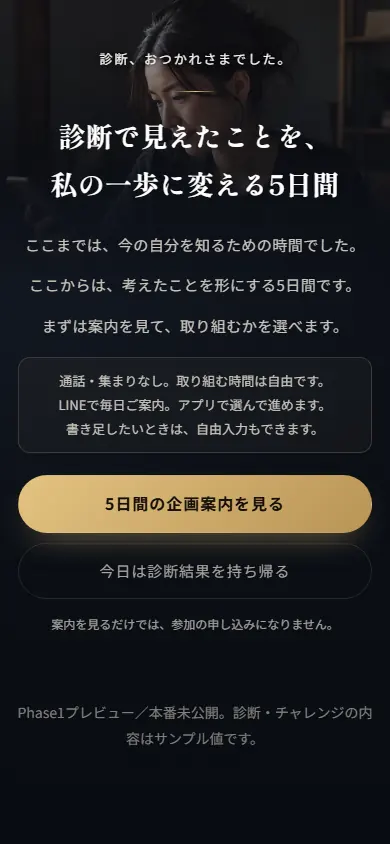
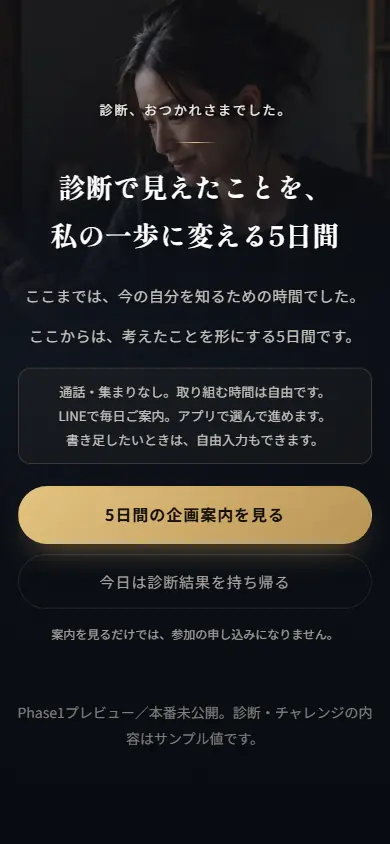
マニュアル更新：今日の変更を反映（全33画面を撮り直し）
・切り替わり画面（本文2行・進み方3行・上部の写真）
・参加の宣言（Codex確定本文）
・診断結果（すでに友だちの人への案内）
・裏側の仕組みに、再診断の通知（⑨）と管理ページの「◯回目」を追記

diff --git a/shindan-5day-manual/index.html b/shindan-5day-manual/index.html
@@ -138,6 +138,7 @@ strong{color:var(--ink)}
 <li>ボタンを押すと、押したその流れの中でコピーします（iOSは間に通信を挟むとコピーに失敗するため）</li>
 <li>コピーできて初めて、LINEの友だち追加ボタンが出ます</li>
 <li><strong>その端末がすでにLINEを知っている場合</strong>は、ここで結び先を新しい診断へ自動で張り替えます（受け直した人の対策）</li>
+<li>LINEの入口の下に「すでに友だちで、案内が届かない方は…」を置いています。受け直した人が、押したのに無反応で止まらないようにするため</li>
 </ul>
 </div></article>
 <article class="screen">
@@ -176,7 +177,7 @@ strong{color:var(--ink)}
 <p class="screen__body">「ここまでが現在地を知る時間。ここからは5日間の企画」と告げるだけの画面。説明はしません。</p>
 <ul class="notes">
 <li><strong>説明はLPの仕事</strong>。ここは区切りだけで、1画面に収めています</li>
-<li>「通話・集まりなし」を先に伝えます（ZOOMがあると思う人が出るため）</li>
+<li>「通話・集まりなし。取り組む時間は自由です。」から3行で、進み方を先に伝えます（ZOOMがあると思う人が出るため）</li>
 <li>上部の写真は装飾です。読み上げにもタブ移動にも出てきません</li>
 <li><strong>一度決めた人（参加済み・見送り済み）には出ません</strong></li>
 <li>ここを見ても、まだ参加にはなりません</li>
@@ -449,6 +450,7 @@ strong{color:var(--ink)}
 <li>切りたくなったら <code>SC.config.oneDayPerDay</code> を <code>false</code> に</li>
 </ul>
 <h3 class="h3">受け直したとき</h3><ul class="notes notes--wide">
+<li><strong>結び先が新しい診断へ移ると、GASがLINEへ知らせます</strong>（シナリオ⑨・2026-09-11）。自動で移ったときも、「最新の結果に切り替える」を押したときも同じ</li>
 <li>同じ端末で保存が生きていれば、<strong>札は変わりません</strong>。記録は二重になりません</li>
 <li>保存が消えた・別の端末だと新しい札になります。<strong>ここは本人確認が無いと塞げません</strong></li>
 <li>新しい合図を持ってきたときだけ、LINEの結び先を張り替えます。勝手には替わりません</li>
@@ -458,6 +460,7 @@ strong{color:var(--ink)}
 <li><strong>管理ページ</strong>：<code>/shindan-5day/admin.html</code>（合言葉が要ります）。エルラボ＋のメニューからも入れます（adminタグの人だけ）</li>
 <li><strong>スプレッドシート</strong>：診断結果／計測／チャレンジ／通知／結合／引き継ぎ の6シート</li>
 <li>止まっている人＝3日以上動いていない人を、管理ページで絞り込めます</li>
+<li>受け直した人の行には「◯回目」が付きます。回数と人数がずれるときは「のべ人数」も出ます（2026-09-11）</li>
 </ul>
 <h3 class="h3">触ってはいけない決まり</h3><ul class="notes notes--wide">
 <li><code>shindan-5day/</code> を直接いじらない（書き出しのたびに消えます）。直すのは元のフォルダ</li>
